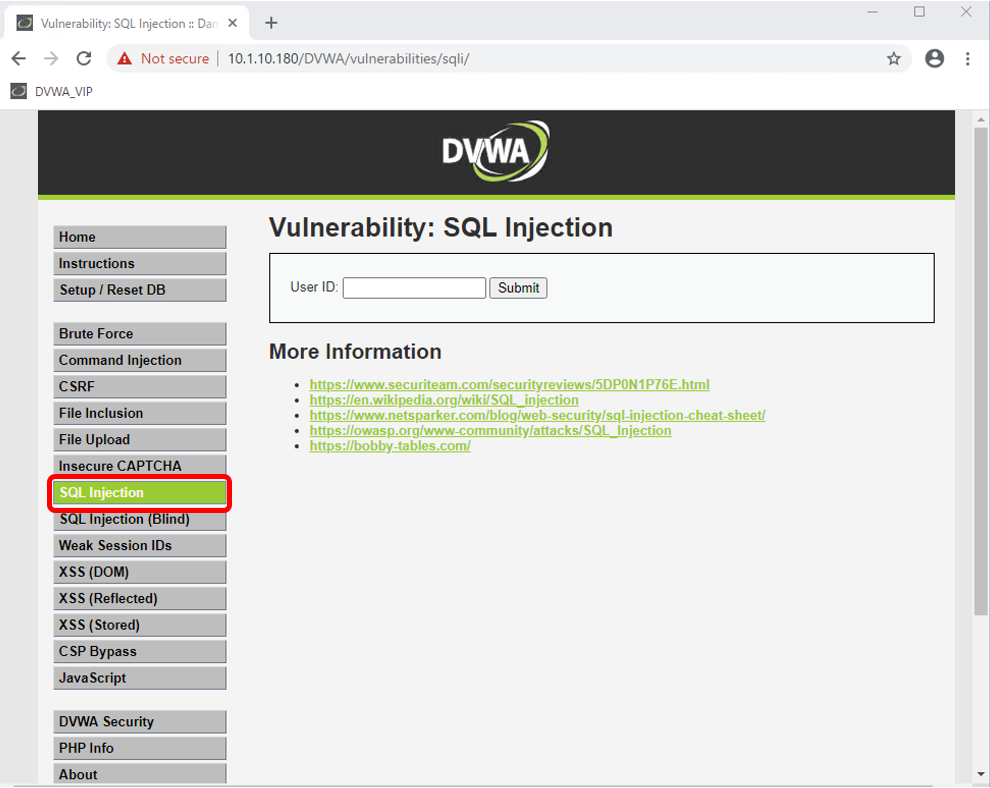
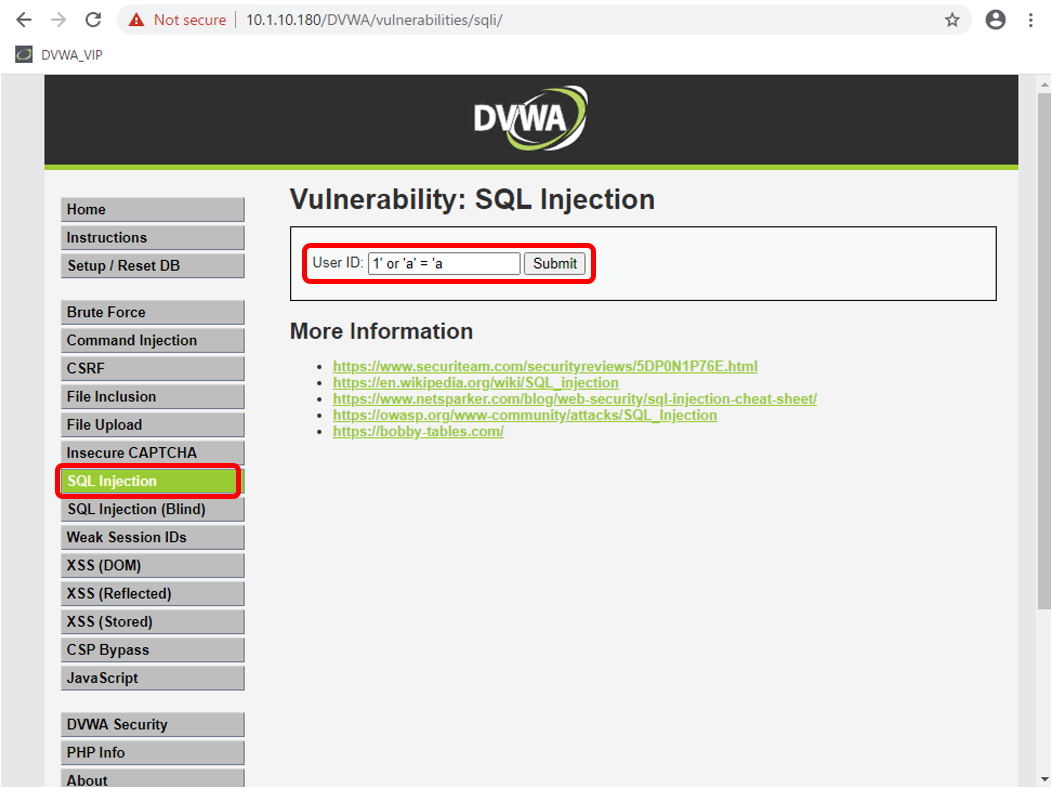
no message

Changed region(s): [[0.0, 0.0, 1.0, 1.0], [0.8788, 0.0, 1.0, 0.0305], [0.9697, 0.9746, 1.0, 1.0]]

diff --git a/docs/content1/module08/module08.rst b/docs/content1/module08/module08.rst
@@ -1,13 +1,18 @@
 シグネチャの動作確認
 =========================================================
 
-#. :guilabel:`Next` ボタンを押します。
+#. Windowsクライアントを起動し、https://10.1.10.180/DVWA/login.php にアクセスします。Username: **admin**、Password: **password** でログインし、**SQL Injection** にアクセスし、**User ID** に 1' or 'a' = 'a と入力し、SQLインジェクション攻撃をします。(本ガイドからコマンドはコピーしないで下さい。シングルクォーテーションが文字化けする可能性があります。)
 
-   .. image:: images/mod3-1.png
+   .. image:: images/mod8-1.png
    |  
+#. **Security >> Event Logs : Application : Requests** にて、**Staged** でSQLインジェクションが検出されていることを確認します。
 
+   .. image:: images/mod8-2.png
+   |  
+#. 上記画面のSuggestionsの **View...** をクリックすると、TrafficLearningの画面でも **Attack signature detected** が確認できます。（ **Security >> Application Security : Policy Building : Traffic Learning** でもたどれます。）
 
-
+   .. image:: images/mod8-3.png
+   |  
 
 
 

diff --git a/docs/content1/module09/module09.rst b/docs/content1/module09/module09.rst
@@ -1,11 +1,25 @@
 シグネチャのステージング解除
 =========================================================
 
-#. :guilabel:`Next` ボタンを押します。
+#. ステージングを解除すると、Event logに攻撃として記録されます。**Security >> Application Security : Security Policies : Policies List >> DVWA_policy** にて、**Attack Signatures** を選択し、画面右上の **Enforce all Staged Signatures** を選択し、ステージングを解除します。 
 
-   .. image:: images/mod3-1.png
+   .. image:: images/mod9-1.png
    |  
+#. ステージングが解除されると、**Status** が **Enforced** となります。
 
+   .. image:: images/mod9-2.png
+   | 
+#. :guilabel:`Apply Policy` を押します。
 
+   .. image:: images/mod9-3.png
+   | 
+#. 再度WindowsクライアントからSQLインジェクションを試みます。
+
+   .. image:: images/mod9-４.png
+   | 
+#. **Security >> Event Logs : Application : Requests** にて、**Alarm Learn** でSQLインジェクションが検出されていることを確認します。
+
+   .. image:: images/mod8-2.png
+   |  
 
 

diff --git a/docs/content1/module10/module10.rst b/docs/content1/module10/module10.rst
@@ -1,11 +1,22 @@
-シグネチャのチューニング
+Blockingモードへの変更
 =========================================================
 
-#. :guilabel:`Next` ボタンを押します。
+#. Blockingモードへ変更すると、Event logに攻撃として記録され、更にブロックされます。**Security >> Application Security : Security Policies : Policies List >> DVWA_policy** にて、**General Settings** を選択し、**Enforcement Mode** に変更し、:guilabel:`Save` ボタンを選択します。
 
-   .. image:: images/mod3-1.png
+   .. image:: images/mod10-1.png
+   | 
+#. :guilabel:`Apply Policy` を押します。
+
+   .. image:: images/mod10-2.png
+   | 
+#. 再度WindowsクライアントからSQLインジェクションを試みます。
+
+   .. image:: images/mod10-3.png
+   | 
+#. **Security >> Event Logs : Application : Requests** にて、**Block Alarm Learn** でSQLインジェクションが検出されていることを確認します。
+
+   .. image:: images/mod10-4.png
    |  
-
 
 
 

diff --git a/docs/content1/module04/module04.rst b/docs/content1/module04/module04.rst
@@ -33,7 +33,7 @@
    
    .. image:: images/mod4-8.png
    | 
-#. **SQL Injection** にアクセスし、**User ID** に 1' or 'a' = 'a と入力し、SQLインジェクション攻撃をします。
+#. **SQL Injection** にアクセスし、**User ID** に 1' or 'a' = 'a と入力し、SQLインジェクション攻撃をします。(本ガイドからコマンドはコピーしないで下さい。シングルクォーテーションが文字化けする可能性があります。)
    
    .. image:: images/mod4-9.png
    | 

diff --git a/docs/content1/module11/module11.rst b/docs/content1/module11/module11.rst
@@ -1,0 +1,11 @@
+シグネチャのチューニング
+=========================================================
+
+#. :guilabel:`Next` ボタンを押します。
+
+   .. image:: images/mod3-1.png
+   |  
+
+
+
+
